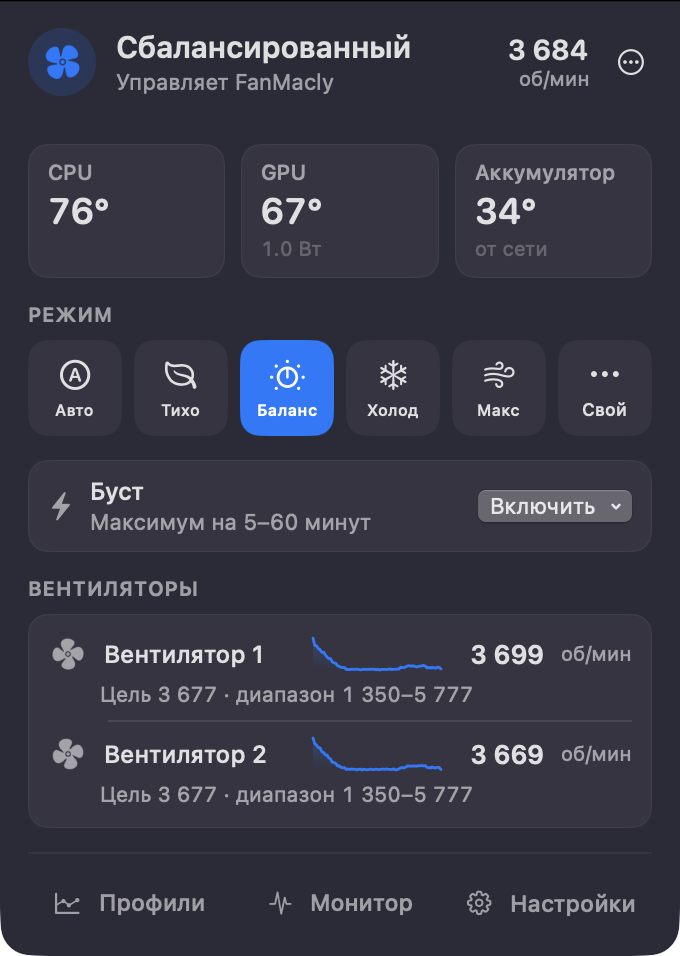
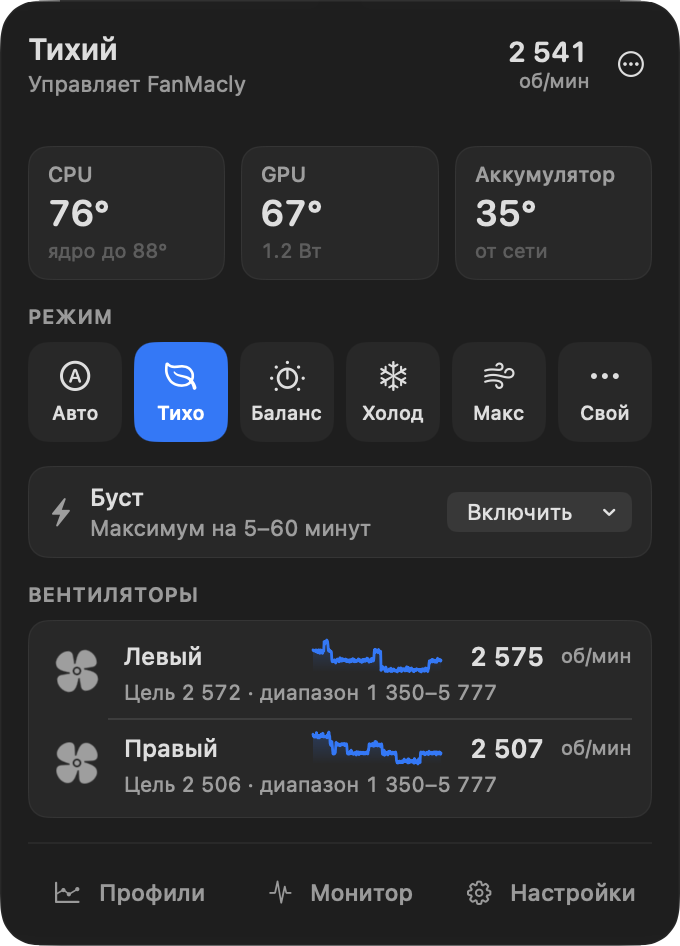
Site: reshoot the panel for 1.0.1
The old screenshot still showed the removed header icon and the fans as
"Вентилятор 1/2". The new one is the real 1.0.1 popover: Quiet mode,
left and right fans. The mock menu bar shows the same speed.

diff --git a/site/index.html b/site/index.html
@@ -375,11 +375,11 @@ footer .links { display: flex; gap: 22px; margin-left: auto; }
           <div class="desk">
             <div class="menubar" aria-hidden="true">
               <span class="item">Wi-Fi</span>
-              <span class="item active"><span class="glyph spin"></span>3 684</span>
+              <span class="item active"><span class="glyph spin"></span>2 541</span>
               <span class="item">Mon 21:40</span>
             </div>
             <div class="popover">
-              <img src="assets/panel.png" width="680" height="956" alt="The FanMacly menu-bar panel: the Balanced mode is active, with CPU, GPU and battery temperatures, mode buttons, a boost control and two fans at about 3,800 rpm.">
+              <img src="assets/panel.png" width="680" height="946" alt="The FanMacly menu-bar panel: the Quiet mode is active, with CPU, GPU and battery temperatures, mode buttons, a boost control and the left and right fans at about 2,500 rpm.">
             </div>
           </div>
           <p class="shot-note">The interface is in Russian for now.</p>
